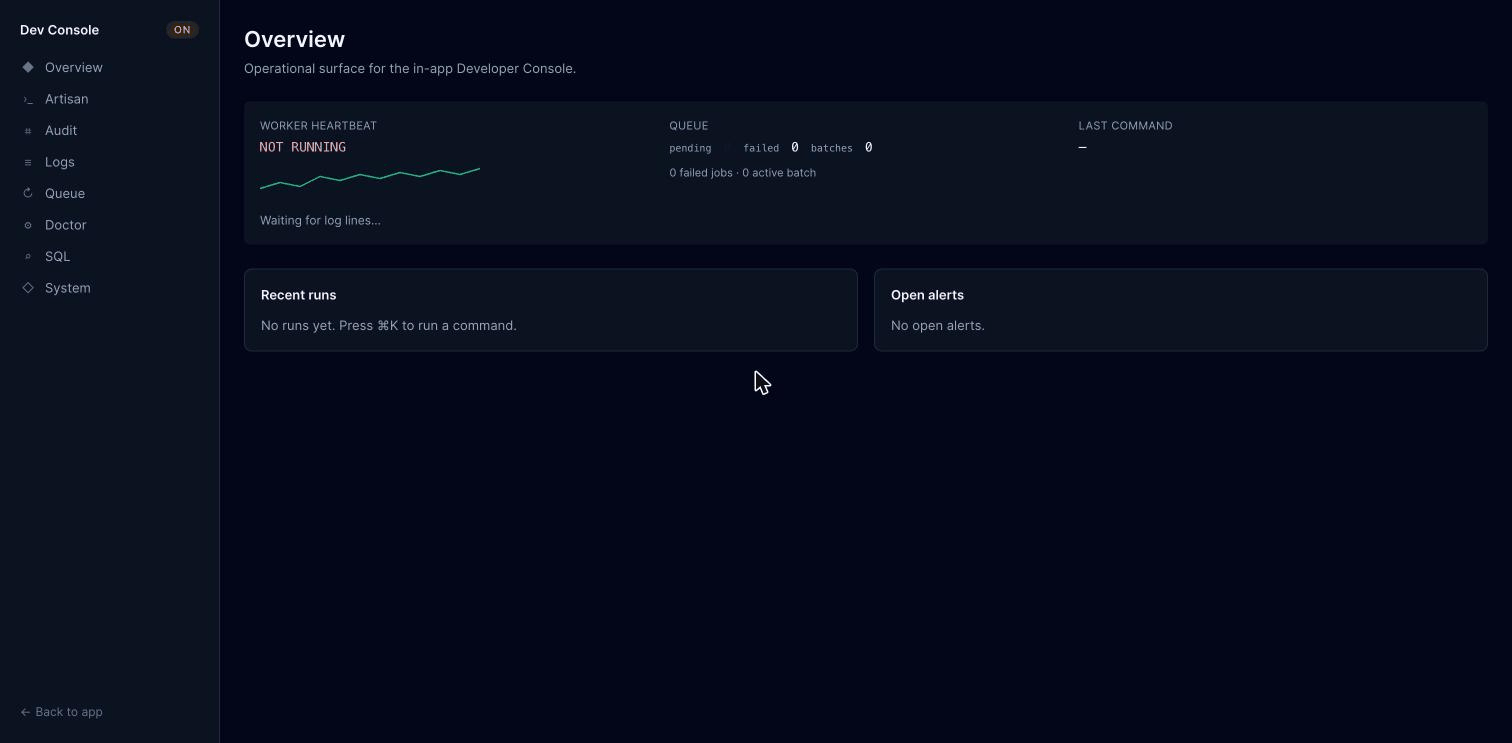
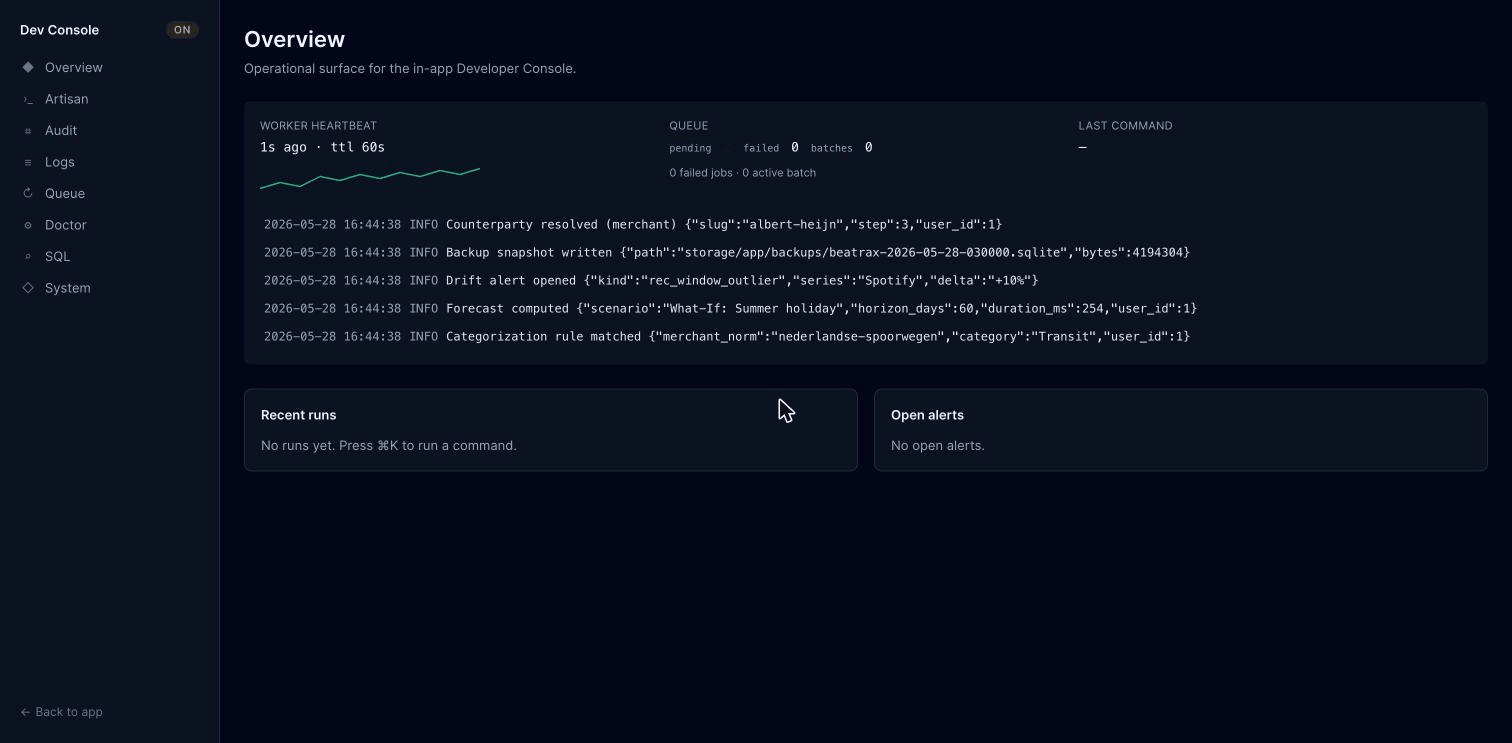
docs(readme): expand screenshots with full app walkthrough
Replace the bullet-list with HTML-comment placeholders (which never
rendered on GitHub) with a proper section-per-feature layout that
embeds the actual assets. Each feature now has caption + animated gif
(or still PNG for pages without a meaningful multi-state).

New gifs walk through 2-3 distinct states each:
  - setup-wizard.gif: 6 of 7 wizard steps end-to-end
  - transactions.gif: EUR-only → original-currency reveal → scroll
  - counterparties.gif: index → type-chip filter → profile drill-in
  - recurring.gif: list → series detail with amount-over-time chart
  - forecast.gif: 30d baseline → 60d → ASN Bank rangeArea + what-if
  - palette.gif: open → type query → arrow-navigate → close

forecast.png re-taken (the previous one captured the chart before its
Alpine hydration fix landed and rendered an empty container).
Multi-user placeholder dropped — the feature is not in v0.x yet.

diff --git a/README.md b/README.md
@@ -122,23 +122,82 @@ the deeper "is this manifest authentic?" check, see
 
 ## Screenshots
 
-A handful of representative screens from the running app:
+A walk through the app — most are short gifs that step through 2–3
+distinct states, the rest are stills.
 
-- **Dashboard** — the "this month at a glance" view with the cash-flow
-  forecast and the per-category breakdown.
-  <!-- screenshot: .docs/assets/screenshots/dashboard.png -->
-- **Chains review** — the page that shows PayPal → ASN and ICS → ASN
-  funding-chain resolutions, so you can see what really paid for what.
-  <!-- screenshot: .docs/assets/screenshots/chains.png -->
-- **Forecast** — 30 / 60 / 90-day cash-flow projection with what-if
-  scenarios.
-  <!-- screenshot: .docs/assets/screenshots/forecast.png -->
-- **Dev Console** — the diagnostic panel for inspecting ingestion
-  state, queue health, and the SQLite WAL.
-  <!-- screenshot: .docs/assets/screenshots/dev-console.png -->
-- **Multi-user profile selector** — switch between personal and
-  shared-household views without leaving the app.
-  <!-- screenshot: .docs/assets/screenshots/multi-user.png -->
+### Setup wizard
+
+A seven-step first-run flow: welcome → bank → PayPal → ICS card →
+email → review & commit → done. Each connector step is skippable so
+you can come back to it later from Settings.
+
+![Setup wizard walkthrough](.docs/assets/screenshots/setup-wizard.gif)
+
+### Dashboard
+
+The "this month at a glance" view with the cash-flow forecast
+highlight, in/out/net at the top, drift alerts, and email-scan health.
+
+![Dashboard](.docs/assets/screenshots/dashboard.png)
+
+### Transactions
+
+Browse, filter, and recategorize inline. Flip between **EUR only** and
+**Original currency** to reveal what a charge really cost — Google
+Play settles in USD but the ASN charge is in EUR, and the toggle shows
+both.
+
+![Transactions](.docs/assets/screenshots/transactions.gif)
+
+### Counterparties
+
+Every merchant, bank, person, or self-account that has ever moved
+money in or out — with type chips, 12-month totals, average per
+month, and a sparkline of recent activity. Drill in for the full
+profile, recent transactions, aliases, and any detected funding
+chain.
+
+![Counterparties](.docs/assets/screenshots/counterparties.gif)
+
+### Recurring
+
+Approved subscriptions and fixed payments at a glance, with the
+monthly total computed across currencies. Each series opens a detail
+page with an amount-over-time chart and every occurrence.
+
+![Recurring](.docs/assets/screenshots/recurring.gif)
+
+### Forecast
+
+30 / 60 / 90-day cash-flow projection across every account. Toggle
+between the aggregate line and per-account range-area charts, and
+overlay what-if scenarios (e.g. a summer-holiday cash outflow) to see
+the dip before it happens.
+
+![Forecast](.docs/assets/screenshots/forecast.gif)
+
+### Chains review
+
+PayPal → ASN and ICS → ASN funding-chain resolutions, so you can see
+what really paid for what.
+
+![Chains review](.docs/assets/screenshots/chains.png)
+
+### Command palette
+
+`⌘K` from anywhere to jump to a page, run a command, or invoke an
+action. Type-ahead filters across views, dev commands, and actions —
+artisan commands, system snapshot, profile, and more.
+
+![Command palette](.docs/assets/screenshots/palette.gif)
+
+### Dev Console
+
+The diagnostic panel for inspecting ingestion state, queue health,
+SQL, logs, and the SQLite WAL — only visible when developer mode is
+on.
+
+![Dev Console](.docs/assets/screenshots/dev-console.png)
 
 Contributors capturing fresh screenshots can populate a representative
 demo dataset with `php artisan demo:seed --reset` once that command
